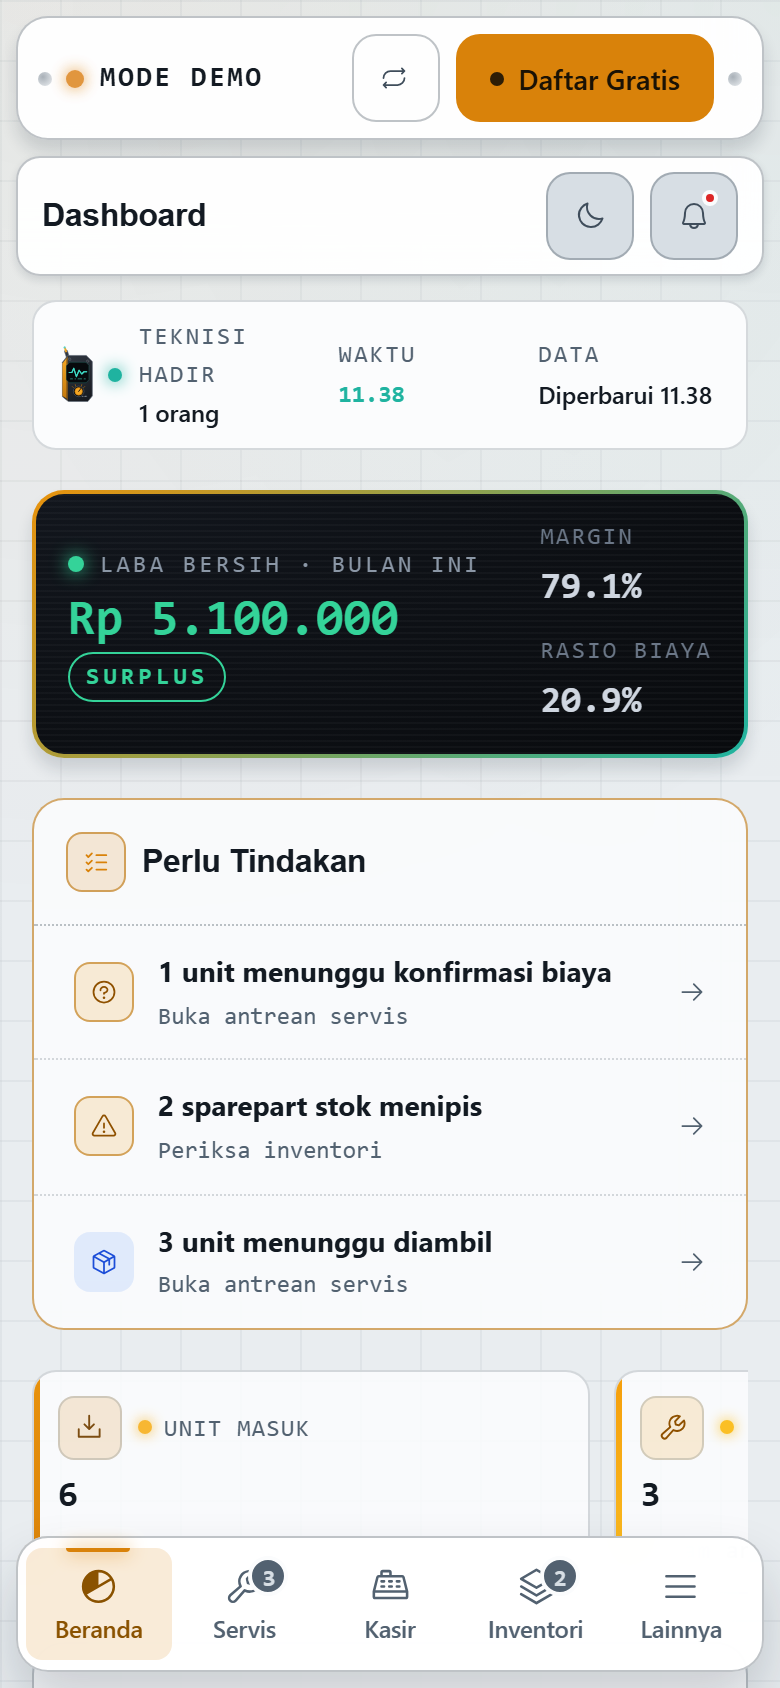
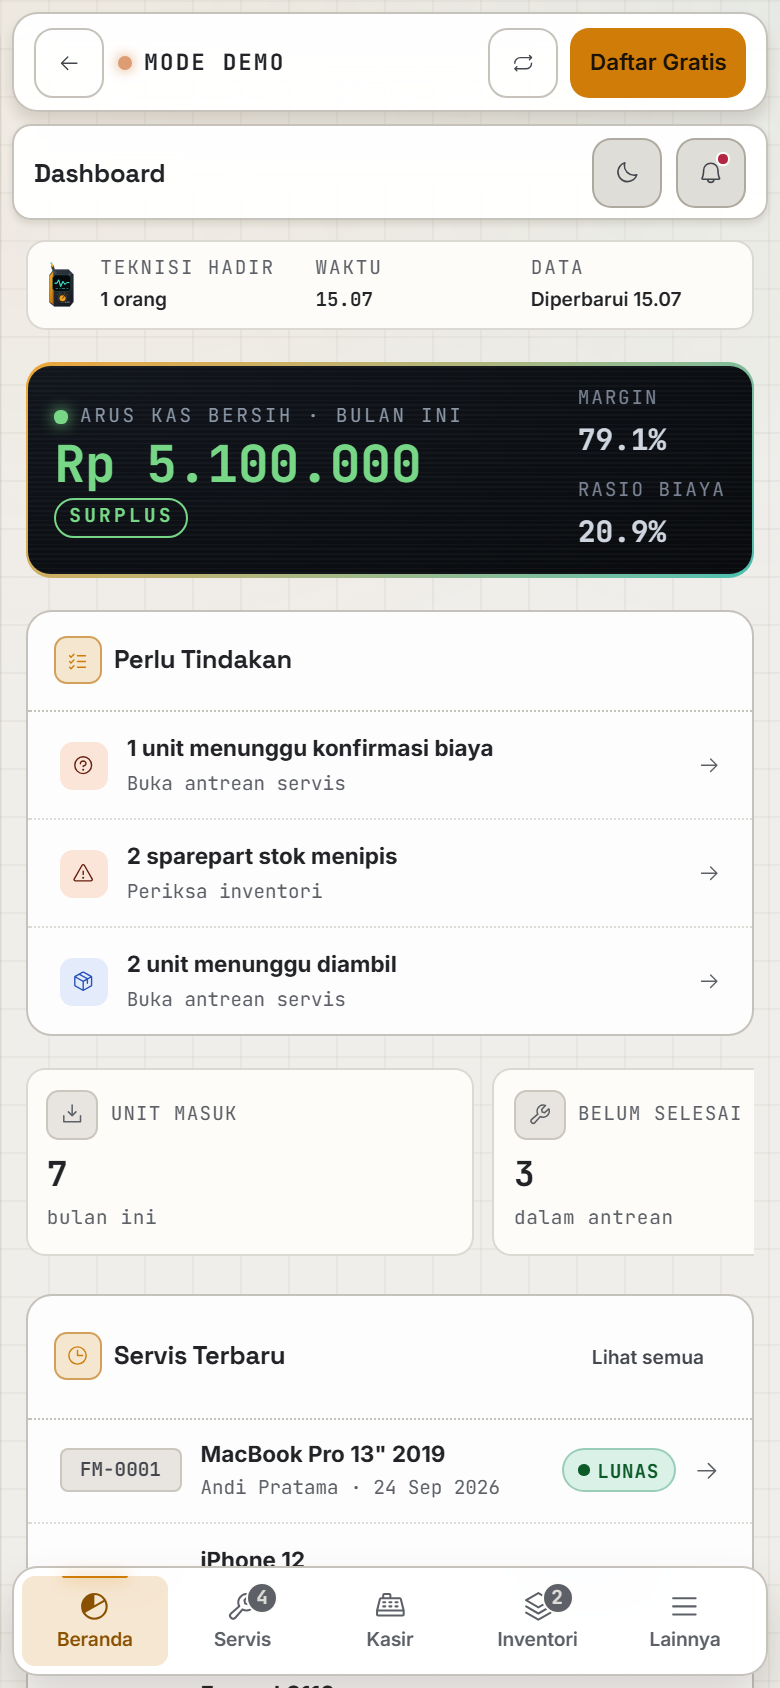
style(tokens): kalibrasi palet nyaman di mata, kedua tema
Diukur di OKLCH: latar gelap diangkat dari nyaris hitam dengan anak tangga
lebih lebar, tepi kartu dipertegas, tinta utama diturunkan dari 15-17:1 ke
~13:1 (gelap) dan 17.6:1 ke ~15:1 (terang), kartu terang jadi gading agar
terpisah dari lapisan mengambang, kejenuhan sinyal turun 10-15% dengan terang
dan rona tetap, glow amber dan bingkai instrumen dilunakkan. Kedua gerbang
kontras lulus. shoot-demo menerima kepadatan desktop demo (80%).

diff --git a/src/styles/tokens.css b/src/styles/tokens.css
@@ -19,7 +19,7 @@
   --brand-900: #7c4d12;
 
   /* ---------- Accent (Diagnostic Cyan) ---------- */
-  --accent-400: #5ce9e6;
+  --accent-400: #68e3e0;
   --accent-500: #3dd9c4;
   --accent-600: #17a396;
   --accent-700: #0b766d;
@@ -28,25 +28,31 @@
      Setiap rona dijaga berjarak dari rona di sebelahnya, karena `STATUS_TONE`
      (lib/business/services.ts) memetakan 8 status servis ke hanya 5 rona —
      jadi rona yang berdekatan langsung menjadi status yang tak terbedakan. */
+  /* Kalibrasi nyaman (24 Sep 2026): terang OKLCH (L) & rona tiap sinyal
+     DIPERTAHANKAN — kontras nyaris tak bergeser — tapi kejenuhan (C) diturunkan
+     ±10–15%. Merah/oranye/biru lama (C 0.19–0.22) adalah warna paling menyala di
+     layar dan membuat panel status terasa berteriak. */
   /* Hijau sinyal — terverifikasi, lunas, selesai. */
-  --green-400: #3fdd9e;
-  --green-500: #0fba7f;
+  /* Rona digeser 162→148deg: setelah kejenuhan teks sukses & aksen sama-sama
+     turun, keduanya hanya berjarak dE 0.088 (gerbang 0.1). */
+  --green-400: #77d787;
+  --green-500: #31b882;
   --green-600: #077a52;
   /* Oranye peringatan. SENGAJA digeser jauh dari emas brand: sebelumnya
      #f59e0b vs brand #f5a623 praktis warna yang sama, sehingga "Konfirmasi
      Biaya" dan "Tunggu Sparepart" tak bisa dibedakan dari "Diterima". */
-  --amber-400: #ff8a3d;
-  --amber-500: #f96d0c;
+  --amber-400: #f88f4e;
+  --amber-500: #ef7634;
   --amber-600: #c14d00;
   /* Merah alarm. */
-  --red-400: #ff8098;
-  --red-500: #e62a52;
-  --red-600: #bb0f3f;
+  --red-400: #f8869a;
+  --red-500: #db4059;
+  --red-600: #b32744;
   --red-700: #9a0b34;
   /* Biru sinyal condong periwinkle, dijauhkan dari cyan aksen. */
-  --blue-400: #86aaff;
-  --blue-500: #4a7cf7;
-  --blue-600: #2a5ad8;
+  --blue-400: #89abf9;
+  --blue-500: #527fe9;
+  --blue-600: #325eca;
   --on-solid: #ffffff;
   --paper: #ffffff;
   --readout-base: #090b0e;
@@ -151,23 +157,29 @@
 :root[data-theme='dark'] {
   color-scheme: dark;
 
-  /* Graphite tengah malam, bukan abu netral. Rona baja (~218deg) dipertahankan
-     di seluruh tumpukan supaya emas brand duduk sebagai komplemen dan benar-
-     benar menyala, bukan menempel di atas abu mati. */
-  --bg-base: #070a11;
-  --bg-app: #0e131d;
-  --bg-surface: #161c28;
-  --bg-surface-2: #1d2430;
-  --bg-elevated: #252d3b;
-  --bg-input: #111825;
+  /* Graphite tengah malam, bukan abu netral. Rona baja (~264deg OKLCH)
+     dipertahankan di seluruh tumpukan supaya emas brand duduk sebagai komplemen
+     dan benar-benar menyala, bukan menempel di atas abu mati.
+     Kalibrasi nyaman (24 Sep 2026), terukur di OKLCH: dasar dulu L 0.145 (hampir
+     hitam) dan tiap anak tangga cuma ~0.04, sehingga kartu menyatu dengan latar.
+     Kini tangga L 0.168 / 0.209 / 0.252 / 0.288 / 0.324 — tetap gelap, tapi tiap
+     permukaan terbaca sebagai benda. */
+  --bg-base: #0b0f17;
+  --bg-app: #131822;
+  --bg-surface: #1c222e;
+  --bg-surface-2: #242b38;
+  --bg-elevated: #2c3443;
+  --bg-input: #161d2a;
   --bg-hover: rgba(255, 255, 255, 0.055);
 
-  --surface-glass: rgba(22, 28, 40, 0.78);
-  --surface-glass-strong: rgba(14, 19, 29, 0.93);
+  --surface-glass: rgba(28, 34, 46, 0.8);
+  --surface-glass-strong: rgba(19, 24, 34, 0.93);
 
-  --text-primary: #f1f3f7;
-  --text-secondary: #a8b2c1;
-  --text-muted: #8391a4;
+  /* Tinta utama dulu 15–17:1 (putih nyaris murni di atas nyaris hitam) — jauh di
+     atas kebutuhan, dan berpendar di sesi panjang. Kini ±12.8:1 di kartu. */
+  --text-primary: #e4e6ea;
+  --text-secondary: #afb8c6;
+  --text-muted: #8f9dae;
   --text-inverse: #14171c;
   /* Text rendered on top of the amber brand color (always dark). */
   --on-brand: #1a1205;
@@ -176,8 +188,10 @@
      (putih cuma 2.5:1), sedangkan di tema terang success justru gelap. */
   --on-signal: #07160f;
 
-  --border: rgba(255, 255, 255, 0.075);
-  --border-strong: rgba(255, 255, 255, 0.145);
+  /* Sedikit lebih tegas dari 0.075/0.145: tepi kartu yang nyaris tak terlihat
+     adalah separuh dari keluhan "gelap tidak jelas". */
+  --border: rgba(255, 255, 255, 0.09);
+  --border-strong: rgba(255, 255, 255, 0.165);
   --border-brand: rgba(245, 166, 35, 0.45);
 
   --brand: var(--brand-500);
@@ -189,39 +203,47 @@
   --accent-soft: rgba(61, 217, 196, 0.17);
   --success: var(--green-500);
   --success-text: var(--green-400);
-  --success-soft: rgba(15, 186, 127, 0.18);
+  --success-soft: rgba(49, 184, 130, 0.18);
   --warning: var(--amber-500);
   --warning-text: var(--amber-400);
-  --warning-soft: rgba(249, 109, 12, 0.18);
+  --warning-soft: rgba(239, 118, 52, 0.18);
   --danger: var(--red-500);
   --danger-text: var(--red-400);
-  --danger-soft: rgba(230, 42, 82, 0.18);
+  --danger-soft: rgba(219, 64, 89, 0.18);
   --info: var(--blue-500);
   --info-text: var(--blue-400);
-  --info-soft: rgba(74, 124, 247, 0.18);
+  --info-soft: rgba(82, 127, 233, 0.18);
 
   /* Faint PCB / blueprint grid line tint — biru cetak-biru, bukan putih. */
   --grid-line: rgba(150, 190, 255, 0.032);
 
-  /* App-shell chassis: sidebar/control-deck surfaces. */
-  --rail-bg: #121826;
-  --rail-well: #0b1019;
-  --rail-panel: #1a2130;
-  --rail-control: #0e1420;
+  /* App-shell chassis: sidebar/control-deck surfaces. Naik bersama tangga latar. */
+  --rail-bg: #171d2b;
+  --rail-well: #0e131e;
+  --rail-panel: #202634;
+  --rail-control: #121823;
   --rail-divider: rgba(255, 255, 255, 0.12);
   --rail-active: rgba(245, 166, 35, 0.18);
   --rail-shadow: 0 6px 8px rgba(0, 0, 0, 0.38), inset 0 1px 0 rgba(255, 255, 255, 0.04);
 
   --gradient-brand: linear-gradient(135deg, #f5a623, #e8920c);
-  --gradient-brand-accent: linear-gradient(135deg, #f5a623, #3dd9c4);
+  /* Bingkai instrumen/modal: amber+cyan penuh berdampingan adalah garis paling
+     menyala di layar gelap; dicampur 28% warna kartu, identitasnya tetap. */
+  --gradient-brand-accent: linear-gradient(
+    135deg,
+    color-mix(in srgb, #f5a623 72%, var(--bg-surface)),
+    color-mix(in srgb, #3dd9c4 72%, var(--bg-surface))
+  );
   --gradient-sheen: linear-gradient(135deg, rgba(255, 255, 255, 0.06), rgba(255, 255, 255, 0));
 
   --shadow-sm: 0 2px 8px rgba(0, 0, 0, 0.24);
   --shadow-md: 0 10px 30px rgba(0, 0, 0, 0.34);
   --shadow-lg: 0 24px 70px rgba(0, 0, 0, 0.52);
-  --shadow-brand: 0 6px 22px rgba(245, 166, 35, 0.32);
+  /* Glow amber dilunakkan (0.32/0.26): di latar gelap ia sumber silau terbesar
+     setelah tombol itu sendiri. "Bertenaga" tetap terbaca. */
+  --shadow-brand: 0 6px 22px rgba(245, 166, 35, 0.22);
   --shadow-bench-tight: 0 6px 8px rgba(0, 0, 0, 0.34);
-  --shadow-brand-tight: 0 4px 8px rgba(245, 166, 35, 0.26);
+  --shadow-brand-tight: 0 4px 8px rgba(245, 166, 35, 0.18);
 
   --focus-ring: var(--brand-400);
   --ring: 0 0 0 3px var(--focus-ring);
@@ -238,7 +260,10 @@
      ini yang membuat sesi panjang terasa nyaman tanpa menggeser identitas. */
   --bg-base: #dfddd8;
   --bg-app: #f0eeea;
-  --bg-surface: #ffffff;
+  /* Kalibrasi nyaman (24 Sep 2026): kartu dulu putih murni — benda paling terang
+     di layar, dan SAMA dengan --bg-elevated sehingga modal/dropdown tak terpisah
+     dari kartu di bawahnya. Kini putih gading; yang mengambang tetap putih. */
+  --bg-surface: #fdfcf9;
   --bg-surface-2: #e8e5e0;
   --bg-elevated: #ffffff;
   --bg-input: #f4f2ed;
@@ -247,9 +272,11 @@
   --surface-glass: rgba(255, 255, 255, 0.89);
   --surface-glass-strong: rgba(255, 255, 255, 0.96);
 
-  --text-primary: #17191d;
+  /* Tinta utama dulu 17.6:1 di atas putih — terlalu keras; kini ±15.3:1.
+     Muted sedikit dijauhkan dari secondary agar tiga tingkat tinta terbedakan. */
+  --text-primary: #212327;
   --text-secondary: #43474d;
-  --text-muted: #54585f;
+  --text-muted: #5d6167;
   --text-inverse: #ffffff;
   --on-brand: #1a1205;
   --on-signal: #ffffff;
@@ -267,16 +294,16 @@
   --accent-soft: rgba(31, 179, 160, 0.18);
   --success: var(--green-600);
   --success-text: #0c5a28;
-  --success-soft: rgba(15, 186, 127, 0.18);
+  --success-soft: rgba(49, 184, 130, 0.18);
   --warning: var(--amber-600);
   --warning-text: #661f0e;
-  --warning-soft: rgba(249, 109, 12, 0.18);
+  --warning-soft: rgba(239, 118, 52, 0.18);
   --danger: var(--red-600);
-  --danger-text: #ab1730;
-  --danger-soft: rgba(230, 42, 82, 0.15);
+  --danger-text: #a42736;
+  --danger-soft: rgba(219, 64, 89, 0.15);
   --info: var(--blue-600);
-  --info-text: #2450c4;
-  --info-soft: rgba(74, 124, 247, 0.15);
+  --info-text: #2b54b8;
+  --info-soft: rgba(82, 127, 233, 0.15);
 
   --grid-line: rgba(60, 46, 25, 0.06);
 
@@ -290,15 +317,19 @@
   --rail-shadow: 0 6px 8px rgba(62, 48, 28, 0.16), inset 0 1px 0 rgba(255, 255, 255, 0.9);
 
   --gradient-brand: linear-gradient(135deg, #e8920c, #d9820a);
-  --gradient-brand-accent: linear-gradient(135deg, #e8920c, #1fb3a0);
+  --gradient-brand-accent: linear-gradient(
+    135deg,
+    color-mix(in srgb, #e8920c 82%, var(--bg-surface)),
+    color-mix(in srgb, #1fb3a0 82%, var(--bg-surface))
+  );
   --gradient-sheen: linear-gradient(135deg, rgba(245, 166, 35, 0.06), rgba(255, 255, 255, 0));
 
   --shadow-sm: 0 2px 4px rgba(62, 48, 28, 0.12);
   --shadow-md: 0 6px 8px rgba(62, 48, 28, 0.14);
   --shadow-lg: 0 16px 28px rgba(62, 48, 28, 0.2);
-  --shadow-brand: 0 6px 20px rgba(217, 130, 10, 0.25);
+  --shadow-brand: 0 6px 20px rgba(217, 130, 10, 0.18);
   --shadow-bench-tight: 0 6px 8px rgba(62, 48, 28, 0.11);
-  --shadow-brand-tight: 0 4px 8px rgba(217, 130, 10, 0.18);
+  --shadow-brand-tight: 0 4px 8px rgba(217, 130, 10, 0.13);
 
   --focus-ring: var(--brand-800);
   --ring: 0 0 0 3px var(--focus-ring);

diff --git a/DESIGN.md b/DESIGN.md
@@ -6,27 +6,40 @@ colors:
   amber-lit: "#f7b733"
   amber-deep: "#e8920c"
   diagnostic-cyan: "#3dd9c4"
-  cyan-lit: "#5fe6d4"
-  graphite-base: "#0b0d10"
-  graphite-app: "#111419"
-  graphite-surface: "#191d23"
-  graphite-raised: "#20252c"
-  graphite-input: "#14181e"
-  rail-chassis: "#15191f"
-  rail-well: "#101318"
-  rail-panel: "#1d2229"
+  cyan-lit: "#68e3e0"
+  graphite-base: "#0b0f17"
+  graphite-app: "#131822"
+  graphite-surface: "#1c222e"
+  graphite-surface-2: "#242b38"
+  graphite-raised: "#2c3443"
+  graphite-input: "#161d2a"
+  rail-chassis: "#171d2b"
+  rail-well: "#0e131e"
+  rail-panel: "#202634"
+  rail-control: "#121823"
   readout-base: "#090b0e"
   readout-surface: "#12161d"
   readout-text: "#f1f4f8"
   readout-muted: "#8b97a6"
-  ink-primary: "#f1f3f6"
-  ink-secondary: "#a7b0bc"
-  ink-muted: "#8290a0"
+  ink-primary: "#e4e6ea"
+  ink-secondary: "#afb8c6"
+  ink-muted: "#8f9dae"
   on-brand: "#1a1205"
-  signal-good: "#34d399"
-  signal-warn: "#fbbf24"
-  signal-crit: "#f87171"
-  signal-info: "#60a5fa"
+  signal-good: "#31b882"
+  signal-good-text: "#77d787"
+  signal-warn: "#ef7634"
+  signal-warn-text: "#f88f4e"
+  signal-crit: "#db4059"
+  signal-crit-text: "#f8869a"
+  signal-info: "#527fe9"
+  signal-info-text: "#89abf9"
+  light-steel-app: "#f0eeea"
+  light-steel-surface: "#fdfcf9"
+  light-steel-elevated: "#ffffff"
+  light-ink-primary: "#212327"
+  light-brand: "#cf7c08"
+  light-brand-deep: "#d9820a"
+  light-accent-bezel: "#1fb3a0"
 typography:
   display:
     fontFamily: "Space Grotesk, Inter, sans-serif"
@@ -155,7 +168,9 @@ The confirmed anti-reference is generic SaaS: stock component-library chrome, a 
 
 A cool graphite field with exactly two chromatic voices and a four-color signal set, all resolved through tokens so the two themes stay in lockstep.
 
-Frontmatter values are the dark theme. The light theme re-binds the same token names; its counterparts are named below where they differ meaningfully.
+Frontmatter values are the dark theme unless prefixed `light-`. The light theme re-binds the same token names; its counterparts are named below where they differ meaningfully.
+
+**Comfort calibration (24 Sep 2026), measured in OKLCH.** Graphite ladder lifted off near-black (L 0.168 / 0.209 / 0.252 / 0.288 / 0.324 instead of starting at 0.145 with ~0.04 steps) so every surface reads as an object; dark primary ink eased from 15–17:1 to ~12.8:1 against cards, light primary from 17.6:1 to ~15.3:1; signal fills and texts kept their lightness and hue but lost 10–15% chroma (red/orange/blue were the loudest pixels on screen); light cards moved to ivory `#fdfcf9` so floating layers (`#ffffff`) separate from them; the amber glow and the amber→cyan bezel were softened. Both gates (`scripts/audit-tokens.mjs`, `scripts/audit-contrast.mjs`) pass. When tuning further, move chroma before lightness — lightness is what contrast rides on.
 
 "Default" here means the token layer only: bare `:root` is dark. At runtime the app follows `prefers-color-scheme` (`src/stores/theme.ts`), so a first-time visitor on a light-set OS lands in light. Neither theme is the one users see — test both.
 

diff --git a/docs/obsidian-vault/Design System.md b/docs/obsidian-vault/Design System.md
@@ -40,6 +40,35 @@ Yang membuat 9 halaman terasa "satu produk" meski beda metafora:
 > [!tip] Prinsip
 > "Bahasa visual bersama, bukan asal beda." Tiap halaman punya alat sendiri, tapi semua memakai token + motif yang sama. Lihat [[Signature Pages]].
 
+### Kalibrasi nyaman di mata (24 Sep 2026)
+
+Permintaan pemilik: nyaman di mata, tidak mencolok, tidak "gelap tak jelas", tetap
+clean & profesional. **Refinement** — identitas, komponen, dan panel instrumen hitam
+(tetap sama di kedua tema, keputusan pemilik) tidak berubah; hanya `tokens.css`.
+
+Diukur dulu di OKLCH (L = terang persepsi, C = kejenuhan), karena gerbang kontras
+hanya menjawab "cukup", bukan "nyaman" — keduanya lulus 0 pelanggaran SEBELUM
+kalibrasi, padahal keluhannya nyata:
+
+| Temuan | Sebelum | Sesudah |
+|---|---|---|
+| Latar gelap nyaris hitam, anak tangga tipis | L 0.145 / 0.187 / 0.226 / 0.296 | L 0.168 / 0.209 / 0.252 / 0.324 |
+| Tepi kartu gelap | 7.5% / 14.5% putih | 9% / 16.5% |
+| Tinta utama gelap di kartu | 15.4:1 (berpendar) | 12.8:1 |
+| Tinta utama terang di kartu | 17.6:1 | 15.3:1 |
+| Kartu terang = modal terang | keduanya `#ffffff` | kartu gading `#fdfcf9`, yang mengambang `#ffffff` |
+| Sinyal gelap paling menyala | merah C 0.219, oranye/biru C 0.192 | C 0.19 / 0.168 (L & rona tetap) |
+| Glow amber + bingkai amber→cyan | penuh | glow −30%, bingkai dicampur 28% warna kartu |
+
+- Aturan kerja: **turunkan kejenuhan sebelum terang** — terang adalah tumpuan kontras,
+  jadi warna bisa dikalemkan tanpa satu teks pun jatuh di bawah AA.
+- Satu efek samping tertangkap gerbang: teks hijau & cyan sama-sama kehilangan
+  kejenuhan lalu saling mendekat (dE 0.088 < 0.1) → rona hijau digeser 162→148°.
+- Verifikasi: `audit-tokens` LULUS, `audit-contrast` 0 gagal (dashboard demo + landing,
+  kedua tema), detektor impeccable 0 temuan, foto demo publik diregenerasi.
+- `scripts/shoot-demo.mjs` ikut dibetulkan: ia menuntut zoom `1`, padahal demo
+  mem-pin kepadatan desktop 80% (`deviceDensityZoom`) sejak keputusan belakangan.
+
 ## Bench OS V2 — fondasi lintas aplikasi (9 Agu 2026)
 
 Landing `Repair Flow Console` kini menjadi acuan visual seluruh produk. Konsistensi
